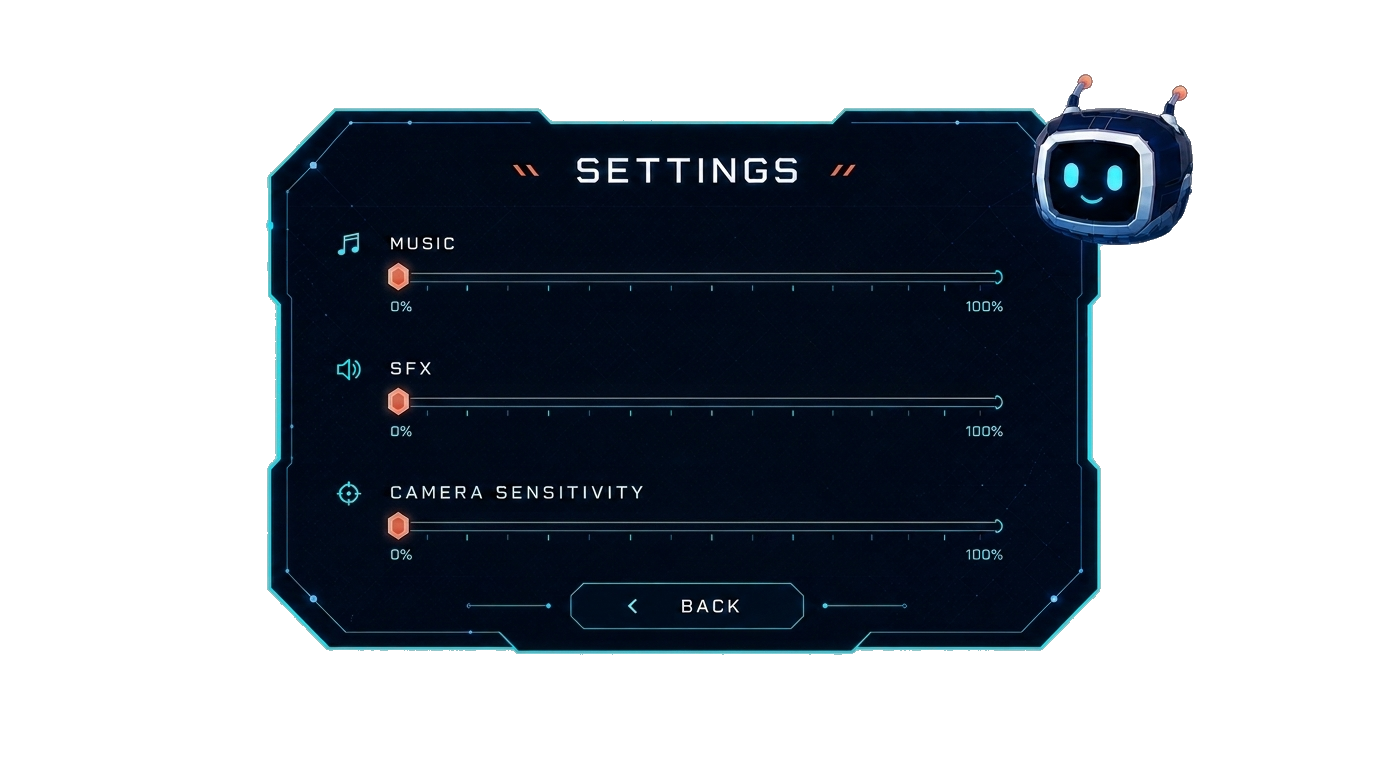
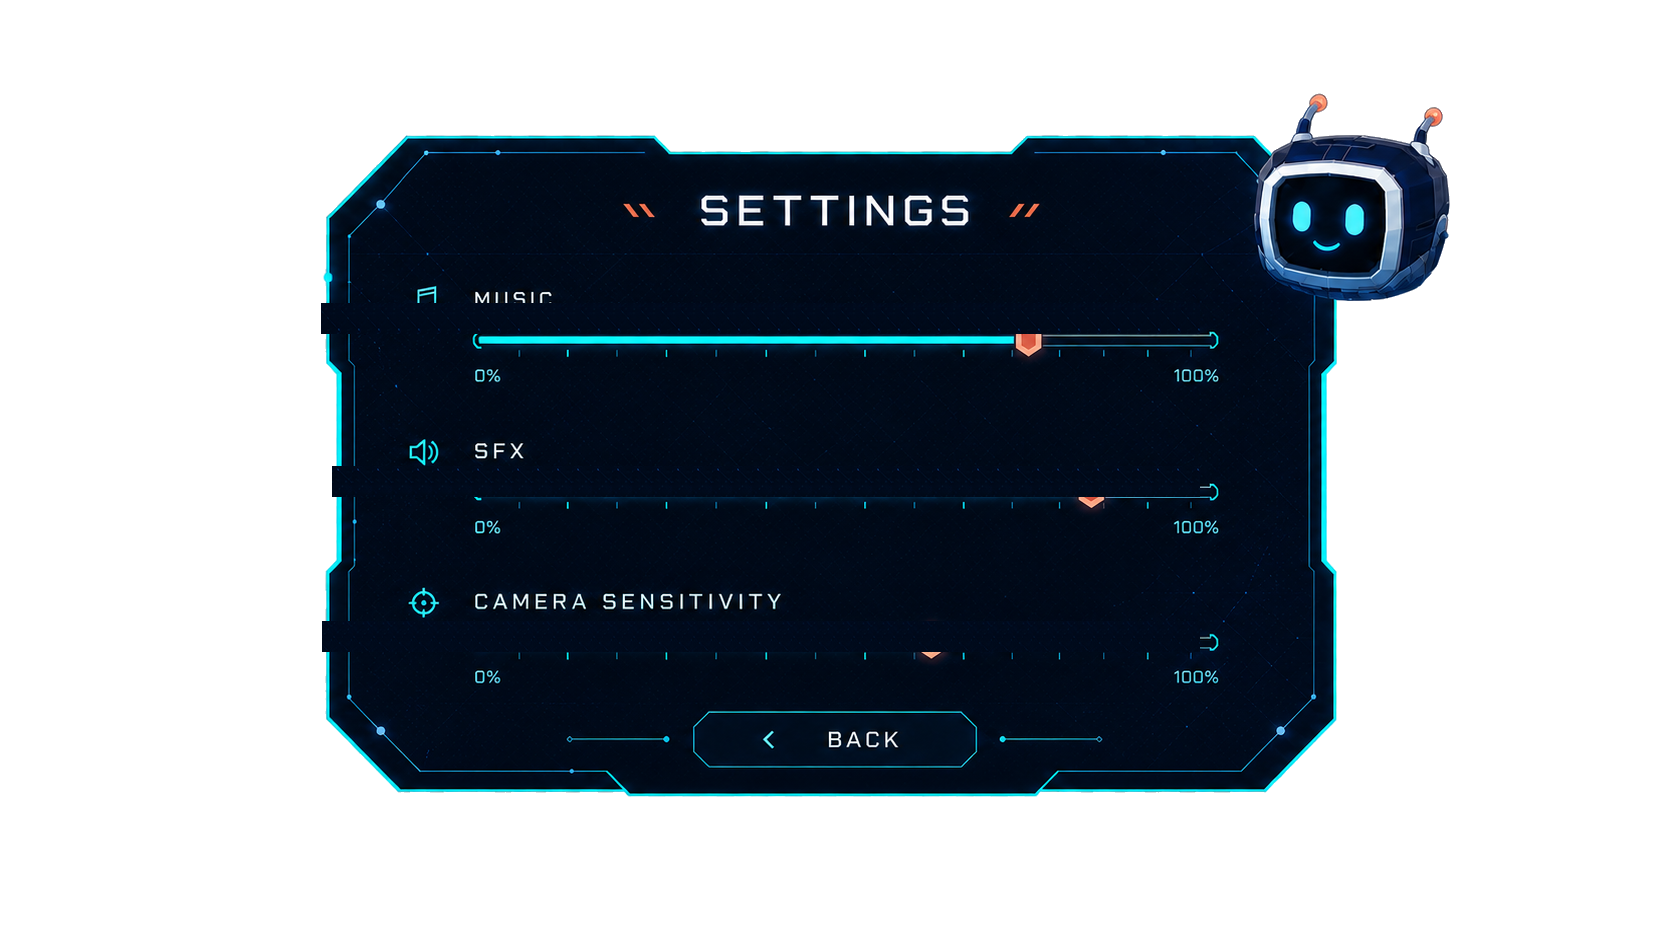
Fix Slider Sprites and event listeners

diff --git a/Assets/_CyberRakshak/Scripts/UI/SettingsOverlayController.cs b/Assets/_CyberRakshak/Scripts/UI/SettingsOverlayController.cs
@@ -21,6 +21,10 @@ namespace CyberRakshak.Runtime
             musicSlider.SetValueWithoutNotify(PlayerPrefs.GetFloat(MusicKey, 1f));
             sfxSlider.SetValueWithoutNotify(PlayerPrefs.GetFloat(SfxKey, 1f));
             sensitivitySlider.SetValueWithoutNotify(PlayerPrefs.GetFloat(SensitivityKey, 1f));
+
+            musicSlider.onValueChanged.AddListener(SetMusic);
+            sfxSlider.onValueChanged.AddListener(SetSfx);
+            sensitivitySlider.onValueChanged.AddListener(SetSensitivity);
         }
 
         public void Open()
